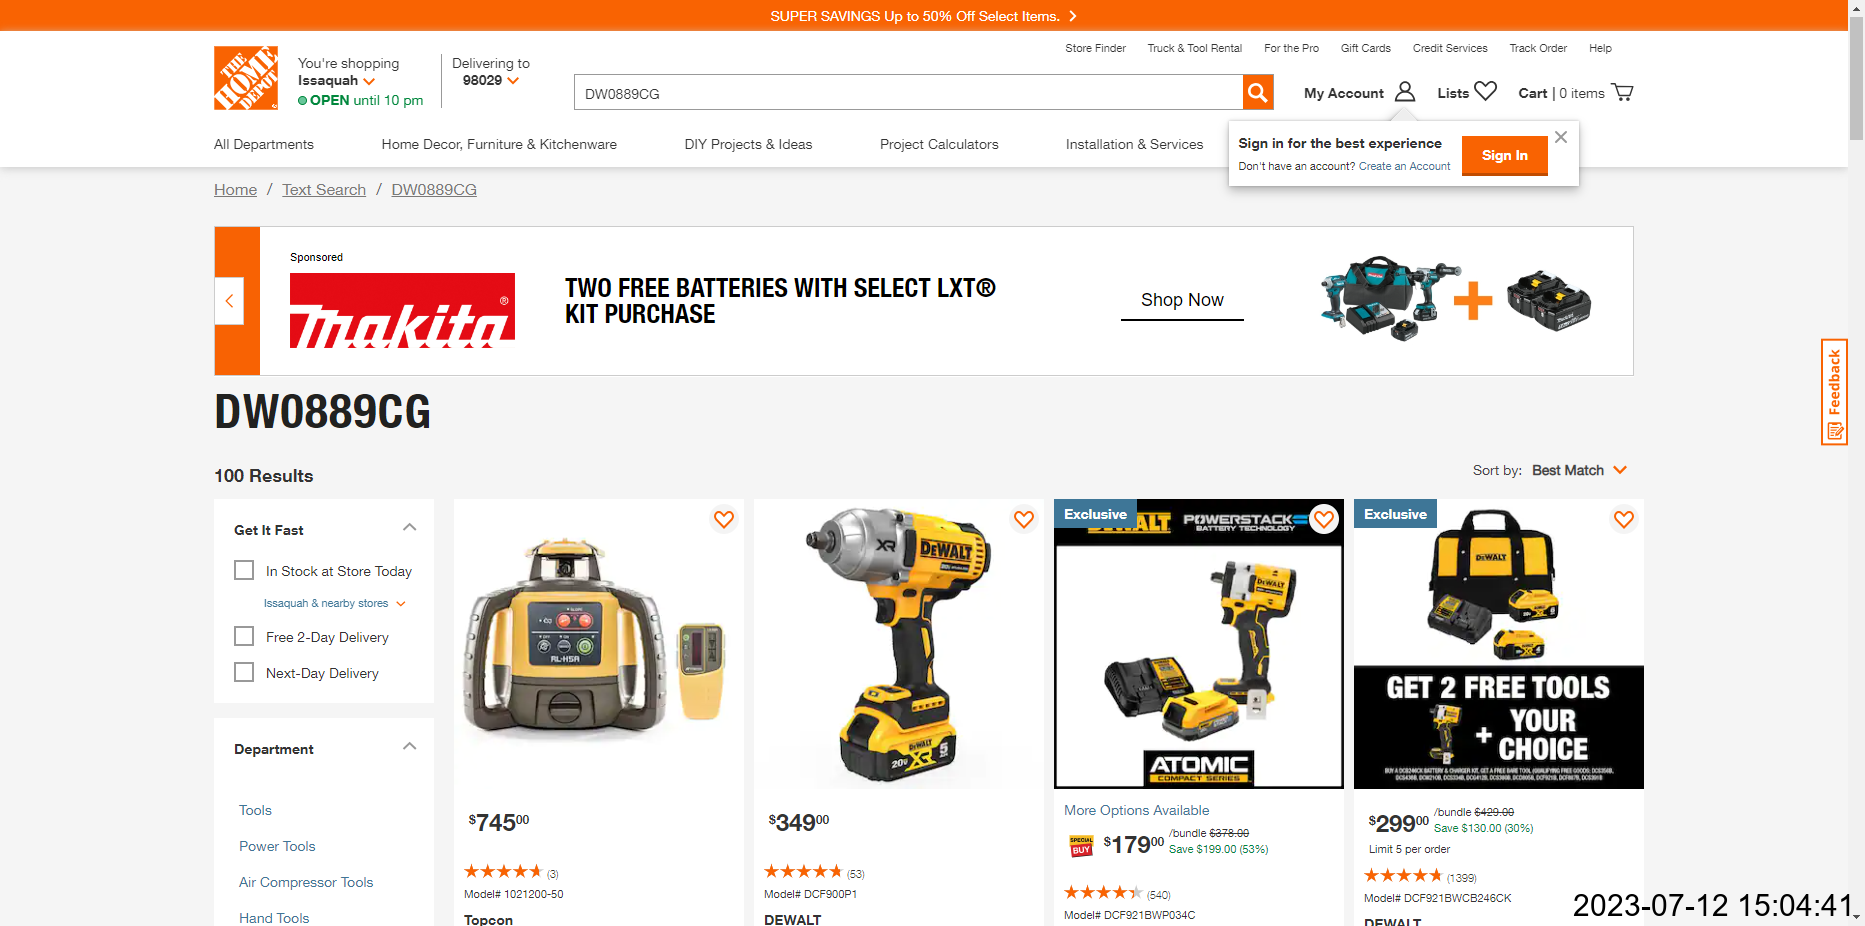
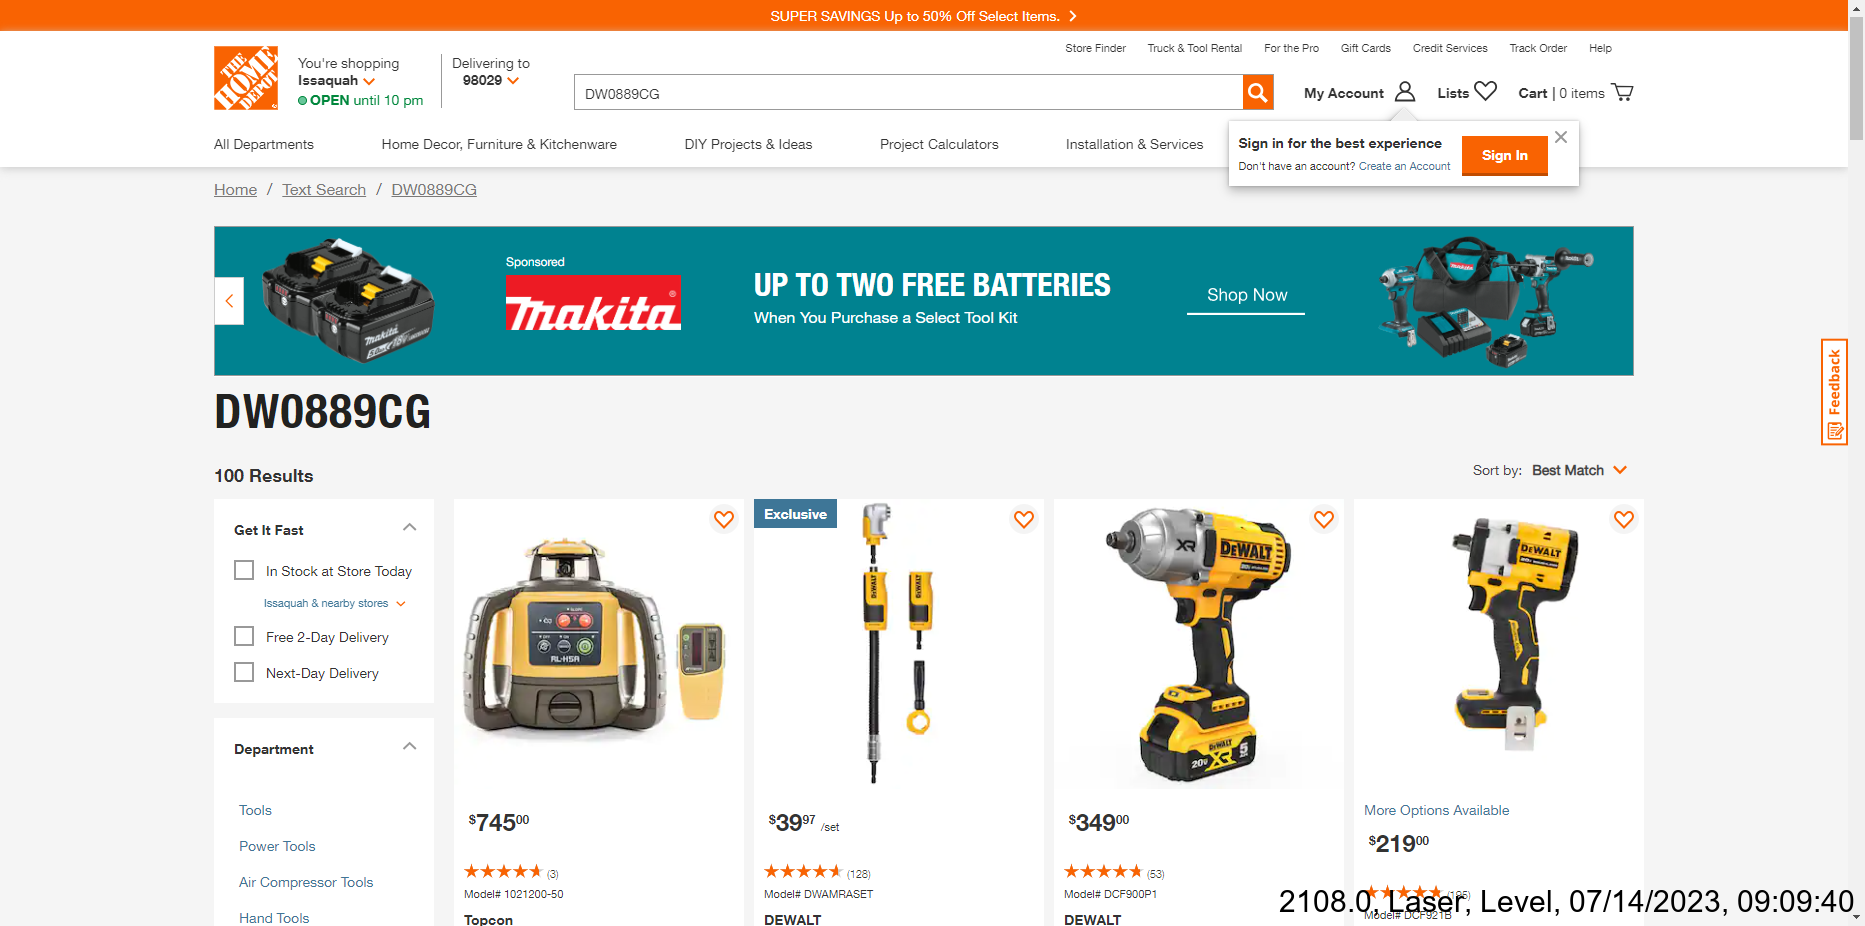
watermark enhancement

diff --git a/docs/screenshot.py b/docs/screenshot.py
@@ -55,22 +55,7 @@ model_number_col_index_2 = sku_test_df.columns.get_loc('Model Number 2')
 item_number_col_index = sku_test_df.columns.get_loc('Item Number')
 item_desc_col_index = sku_test_df.columns.get_loc('Item Description')
 
-def add_watermark(screenshot_filename):
-    img = Image.open(screenshot_filename)
-    draw = ImageDraw.Draw(img)
-    text = datetime.datetime.now().strftime("%Y-%m-%d %H:%M:%S")
-    position = (10, 10)
-    font = ImageFont.truetype("C:\\Windows\\Fonts\\arial.ttf", 30)
-    color = "black" 
 
-    # Get image and text dimensions
-    img_width, img_height = img.size
-    text_width, text_height = draw.textsize(text, font=font)
-
-    position = (img_width - text_width - 10, img_height - text_height -10)
-
-    draw.text(position, text, font=font, fill=color)
-    img.save(screenshot_filename)
 
 website_columns = {
     'www.homedepot.com': 'Home_Depot_Link',
@@ -80,12 +65,32 @@ website_columns = {
     'www.coastaltool.com': 'Coastal_Link'
 }
 
+def add_watermark(screenshot_filename, item_number, item_desc):
+    img = Image.open(screenshot_filename)
+    draw = ImageDraw.Draw(img)
+    date_time = datetime.datetime.now().strftime("%m/%d/%Y, %H:%M:%S")
+    watermark_text = f"{item_number}, {item_desc}, {date_time}"
+    position = (10, 10)
+    font = ImageFont.truetype("C:\\Windows\\Fonts\\arial.ttf", 30)
+    color = "black" 
+
+    # Get image and text dimensions
+    img_width, img_height = img.size
+    text_width, text_height = draw.textsize(watermark_text, font=font)
+
+    position = (img_width - text_width - 10, img_height - text_height -10)
+
+    draw.text(position, watermark_text, font=font, fill=color)
+    img.save(screenshot_filename)
+
+
 # Iterate over the rows in the Excel file
 for index, row in sku_test_df.iterrows():
     model_number_1 = row[model_number_col_index]
     model_number_2 = row[model_number_col_index_2]
 
     item_number = row[item_number_col_index]
+    item_desc = str(row[item_desc_col_index])
     if pd.isnull(item_number):
         break
 
@@ -133,11 +138,11 @@ for index, row in sku_test_df.iterrows():
             # Take a screenshot
             screenshot_filename = f'{folder_name}/{row["Item Number"]}_{item_desc}_{custom_website_name}_{index}.png'
             driver.save_screenshot(screenshot_filename)
-            add_watermark(screenshot_filename)
+            add_watermark(screenshot_filename, item_number, item_desc)
             driver.delete_all_cookies()
 
-            screenshot_column_name = website_columns[website_name]
-            sku_test_df.at[index, screenshot_column_name] = website_url
+screenshot_column_name = website_columns[website_name]
+sku_test_df.at[index, screenshot_column_name] = website_url
 
 
 from openpyxl import load_workbook
